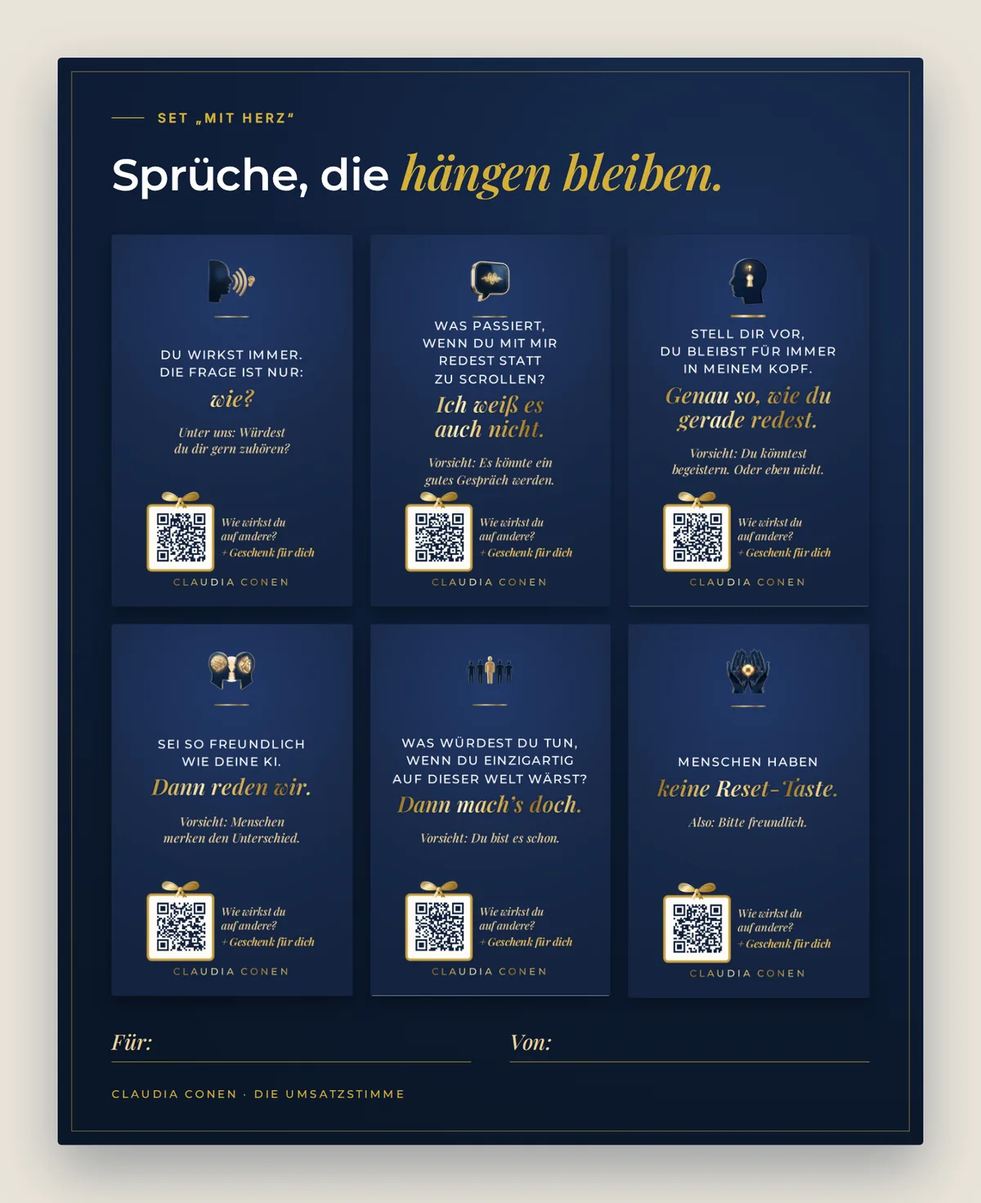
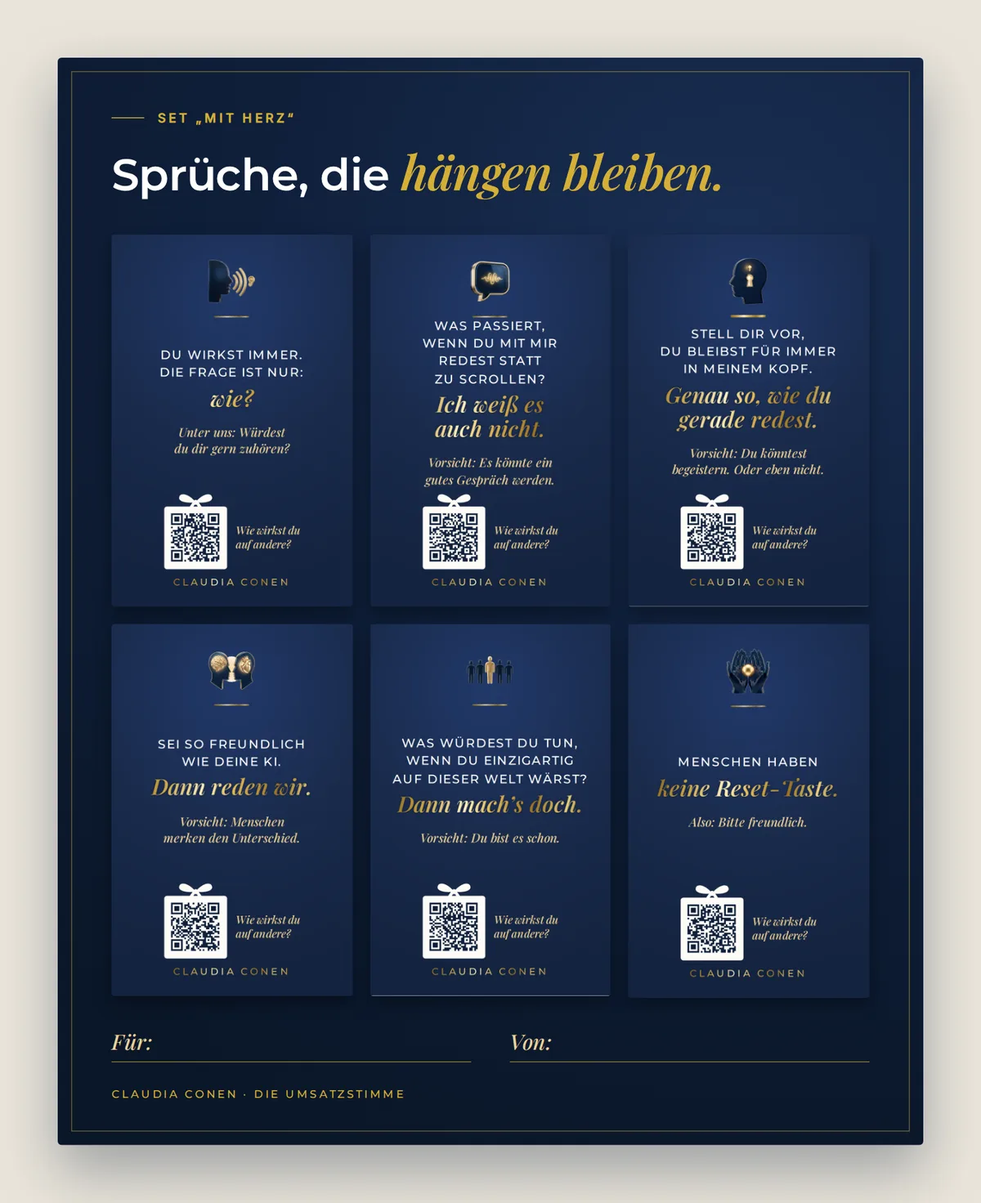
Magnet: schlichte Schleife in QR-Feldfarbe, ohne Zusatztext

diff --git a/magnet.html b/magnet.html
@@ -62,9 +62,8 @@ h1 em,h2 em{font:italic 600 1.06em/1 var(--ff-a);color:var(--gold-dunkel)}
 .mag .qr svg{width:calc(12.5*var(--mm));height:calc(12.5*var(--mm));display:block}
 .mag .fuss{position:absolute;left:0;right:0;bottom:calc(4.6*var(--mm));font:500 calc(2.2*var(--mm))/1 Montserrat,sans-serif;letter-spacing:.24em;color:#D4AF37}
 .mag .fuss span{background:linear-gradient(105deg,#8E6A22 0%,#C9A447 18%,#FFF1C1 38%,#E4BC5D 50%,#9A7224 72%,#E9CF7E 88%,#8E6A22 100%);-webkit-background-clip:text;background-clip:text;color:transparent}
-.mag .qr i{position:relative;padding:calc(.9*var(--mm));background:#FDFBF7;border-radius:calc(.6*var(--mm));
- box-shadow:0 0 0 calc(.45*var(--mm)) #C9A447, 0 0 0 calc(.6*var(--mm)) #8E6A22}
-.mag .qr svg.schleife{position:absolute;left:50%;top:calc(-3.9*var(--mm));width:calc(10*var(--mm));height:calc(4.5*var(--mm));transform:translateX(-50%)}
+.mag .qr i{position:relative;padding:calc(.9*var(--mm));background:#FDFBF7;border-radius:calc(.6*var(--mm))}
+.mag .qr svg.schleife{position:absolute;left:50%;top:calc(-3.6*var(--mm));width:calc(10*var(--mm));height:calc(4*var(--mm));transform:translateX(-50%)}
 .mag .qr{bottom:calc(8.6*var(--mm))}
 
 /* Produkt */
@@ -113,7 +112,7 @@ footer{padding:22px 0;font-size:13px;letter-spacing:.06em;border-top:1px solid v
  </div>
 </div></section>
 
-<div class="band" id="band" tabindex="0" aria-label="Alle Sprüche, laufen langsam durch. Zum Anhalten mit der Maus darüberfahren."><div class="spur"><article class="slot" data-audio="magnet-dateien/audio/01.m4a" data-nr="01"><div class="grp">Mit Herz</div><div class="mag"><img class="ic" src="magnet-dateien/schritt-5.webp" alt=""><div class="strich"></div><div class="text"><p class="z"><b>Du wirkst immer.</b><b>Die Frage ist nur:</b><span class="gd">wie?</span></p><p class="t">Unter uns: Würdest du dir gern zuhören?</p></div><div class="qr"><i><svg class="schleife" viewBox="0 0 40 18" aria-hidden="true"><defs><linearGradient id="sg01" x1="0" x2="1" y1="0" y2=".3"><stop offset="0" stop-color="#8E6A22"/><stop offset=".35" stop-color="#FFF1C1"/><stop offset=".55" stop-color="#E4BC5D"/><stop offset="1" stop-color="#9A7224"/></linearGradient></defs><path fill="url(#sg01)" d="M20 10 C14 2,4 0,3 6 C2 11,12 12,20 10Z M20 10 C26 2,36 0,37 6 C38 11,28 12,20 10Z"/><path fill="none" stroke="#13233F" stroke-width=".6" opacity=".35" d="M19 9.5 C14 4,7 3,6 6.5 M21 9.5 C26 4,33 3,34 6.5"/><path fill="url(#sg01)" d="M18.5 10 L14 17.5 L16.6 16.6 L17.6 18 L20 11Z M21.5 10 L26 17.5 L23.4 16.6 L22.4 18 L20 11Z"/><ellipse cx="20" cy="10" rx="2.6" ry="2.2" fill="url(#sg01)" stroke="#9A7224" stroke-width=".3"/></svg><svg viewBox="0 0 33 33"><use href="#qr01"/></svg></i><span>Wie wirkst du<br>auf andere?<b>+ Geschenk für dich</b></span></div><div class="fuss"><span>CLAUDIA CONEN</span></div></div></article><article class="slot" data-audio="magnet-dateien/audio/02.m4a" data-nr="02"><div class="grp">Mit Herz</div><div class="mag"><img class="ic" src="magnet-dateien/botschaft.webp" alt=""><div class="strich"></div><div class="text"><p class="z"><b>Was passiert,</b><b>wenn du mit mir</b><b>redest statt</b><b>zu scrollen?</b><span class="gd">Ich weiß es auch nicht.</span></p><p class="t">Vorsicht: Es könnte ein gutes Gespräch werden.</p></div><div class="qr"><i><svg class="schleife" viewBox="0 0 40 18" aria-hidden="true"><defs><linearGradient id="sg02" x1="0" x2="1" y1="0" y2=".3"><stop offset="0" stop-color="#8E6A22"/><stop offset=".35" stop-color="#FFF1C1"/><stop offset=".55" stop-color="#E4BC5D"/><stop offset="1" stop-color="#9A7224"/></linearGradient></defs><path fill="url(#sg02)" d="M20 10 C14 2,4 0,3 6 C2 11,12 12,20 10Z M20 10 C26 2,36 0,37 6 C38 11,28 12,20 10Z"/><path fill="none" stroke="#13233F" stroke-width=".6" opacity=".35" d="M19 9.5 C14 4,7 3,6 6.5 M21 9.5 C26 4,33 3,34 6.5"/><path fill="url(#sg02)" d="M18.5 10 L14 17.5 L16.6 16.6 L17.6 18 L20 11Z M21.5 10 L26 17.5 L23.4 16.6 L22.4 18 L20 11Z"/><ellipse cx="20" cy="10" rx="2.6" ry="2.2" fill="url(#sg02)" stroke="#9A7224" stroke-width=".3"/></svg><svg viewBox="0 0 33 33"><use href="#qr02"/></svg></i><span>Wie wirkst du<br>auf andere?<b>+ Geschenk für dich</b></span></div><div class="fuss"><span>CLAUDIA CONEN</span></div></div></article><article class="slot" data-audio="magnet-dateien/audio/03.m4a" data-nr="03"><div class="grp">Mit Herz</div><div class="mag"><img class="ic" src="magnet-dateien/schritt-1.webp" alt=""><div class="strich"></div><div class="text"><p class="z"><b>Stell dir vor,</b><b>du bleibst für immer</b><b>in meinem Kopf.</b><span class="gd">Genau so, wie du gerade redest.</span></p><p class="t">Vorsicht: Du könntest begeistern. Oder eben nicht.</p></div><div class="qr"><i><svg class="schleife" viewBox="0 0 40 18" aria-hidden="true"><defs><linearGradient id="sg03" x1="0" x2="1" y1="0" y2=".3"><stop offset="0" stop-color="#8E6A22"/><stop offset=".35" stop-color="#FFF1C1"/><stop offset=".55" stop-color="#E4BC5D"/><stop offset="1" stop-color="#9A7224"/></linearGradient></defs><path fill="url(#sg03)" d="M20 10 C14 2,4 0,3 6 C2 11,12 12,20 10Z M20 10 C26 2,36 0,37 6 C38 11,28 12,20 10Z"/><path fill="none" stroke="#13233F" stroke-width=".6" opacity=".35" d="M19 9.5 C14 4,7 3,6 6.5 M21 9.5 C26 4,33 3,34 6.5"/><path fill="url(#sg03)" d="M18.5 10 L14 17.5 L16.6 16.6 L17.6 18 L20 11Z M21.5 10 L26 17.5 L23.4 16.6 L22.4 18 L20 11Z"/><ellipse cx="20" cy="10" rx="2.6" ry="2.2" fill="url(#sg03)" stroke="#9A7224" stroke-width=".3"/></svg><svg viewBox="0 0 33 33"><use href="#qr03"/></svg></i><span>Wie wirkst du<br>auf andere?<b>+ Geschenk für dich</b></span></div><div class="fuss"><span>CLAUDIA CONEN</span></div></div></article><article class="slot" data-audio="magnet-dateien/audio/04.m4a" data-nr="04"><div class="grp">Mit Herz</div><div class="mag"><img class="ic" src="magnet-dateien/schritt-7.webp" alt=""><div class="strich"></div><div class="text"><p class="z"><b>Sei so freundlich</b><b>wie deine KI.</b><span class="gd">Dann reden wir.</span></p><p class="t">Vorsicht: Menschen merken den Unterschied.</p></div><div class="qr"><i><svg class="schleife" viewBox="0 0 40 18" aria-hidden="true"><defs><linearGradient id="sg04" x1="0" x2="1" y1="0" y2=".3"><stop offset="0" stop-color="#8E6A22"/><stop offset=".35" stop-color="#FFF1C1"/><stop offset=".55" stop-color="#E4BC5D"/><stop offset="1" stop-color="#9A7224"/></linearGradient></defs><path fill="url(#sg04)" d="M20 10 C14 2,4 0,3 6 C2 11,12 12,20 10Z M20 10 C26 2,36 0,37 6 C38 11,28 12,20 10Z"/><path fill="none" stroke="#13233F" stroke-width=".6" opacity=".35" d="M19 9.5 C14 4,7 3,6 6.5 M21 9.5 C26 4,33 3,34 6.5"/><path fill="url(#sg04)" d="M18.5 10 L14 17.5 L16.6 16.6 L17.6 18 L20 11Z M21.5 10 L26 17.5 L23.4 16.6 L22.4 18 L20 11Z"/><ellipse cx="20" cy="10" rx="2.6" ry="2.2" fill="url(#sg04)" stroke="#9A7224" stroke-width=".3"/></svg><svg viewBox="0 0 33 33"><use href="#qr04"/></svg></i><span>Wie wirkst du<br>auf andere?<b>+ Geschenk für dich</b></span></div><div class="fuss"><span>CLAUDIA CONEN</span></div></div></article><article class="slot" data-audio="magnet-dateien/audio/05.m4a" data-nr="05"><div class="grp">Mit Herz</div><div class="mag"><img class="ic" src="magnet-dateien/schritt-3.webp" alt=""><div class="strich"></div><div class="text"><p class="z"><b>Was würdest du tun,</b><b>wenn du einzigartig</b><b>auf dieser Welt wärst?</b><span class="gd">Dann mach’s doch.</span></p><p class="t">Vorsicht: Du bist es schon.</p></div><div class="qr"><i><svg class="schleife" viewBox="0 0 40 18" aria-hidden="true"><defs><linearGradient id="sg05" x1="0" x2="1" y1="0" y2=".3"><stop offset="0" stop-color="#8E6A22"/><stop offset=".35" stop-color="#FFF1C1"/><stop offset=".55" stop-color="#E4BC5D"/><stop offset="1" stop-color="#9A7224"/></linearGradient></defs><path fill="url(#sg05)" d="M20 10 C14 2,4 0,3 6 C2 11,12 12,20 10Z M20 10 C26 2,36 0,37 6 C38 11,28 12,20 10Z"/><path fill="none" stroke="#13233F" stroke-width=".6" opacity=".35" d="M19 9.5 C14 4,7 3,6 6.5 M21 9.5 C26 4,33 3,34 6.5"/><path fill="url(#sg05)" d="M18.5 10 L14 17.5 L16.6 16.6 L17.6 18 L20 11Z M21.5 10 L26 17.5 L23.4 16.6 L22.4 18 L20 11Z"/><ellipse cx="20" cy="10" rx="2.6" ry="2.2" fill="url(#sg05)" stroke="#9A7224" stroke-width=".3"/></svg><svg viewBox="0 0 33 33"><use href="#qr05"/></svg></i><span>Wie wirkst du<br>auf andere?<b>+ Geschenk für dich</b></span></div><div class="fuss"><span>CLAUDIA CONEN</span></div></div></article><article class="slot" data-audio="magnet-dateien/audio/06.m4a" data-nr="06"><div class="grp">Mit Herz</div><div class="mag"><img class="ic" src="magnet-dateien/schritt-8.webp" alt=""><div class="strich"></div><div class="text"><p class="z"><b>Menschen haben</b><span class="gd">keine Reset-Taste.</span></p><p class="t">Also: Bitte freundlich.</p></div><div class="qr"><i><svg class="schleife" viewBox="0 0 40 18" aria-hidden="true"><defs><linearGradient id="sg06" x1="0" x2="1" y1="0" y2=".3"><stop offset="0" stop-color="#8E6A22"/><stop offset=".35" stop-color="#FFF1C1"/><stop offset=".55" stop-color="#E4BC5D"/><stop offset="1" stop-color="#9A7224"/></linearGradient></defs><path fill="url(#sg06)" d="M20 10 C14 2,4 0,3 6 C2 11,12 12,20 10Z M20 10 C26 2,36 0,37 6 C38 11,28 12,20 10Z"/><path fill="none" stroke="#13233F" stroke-width=".6" opacity=".35" d="M19 9.5 C14 4,7 3,6 6.5 M21 9.5 C26 4,33 3,34 6.5"/><path fill="url(#sg06)" d="M18.5 10 L14 17.5 L16.6 16.6 L17.6 18 L20 11Z M21.5 10 L26 17.5 L23.4 16.6 L22.4 18 L20 11Z"/><ellipse cx="20" cy="10" rx="2.6" ry="2.2" fill="url(#sg06)" stroke="#9A7224" stroke-width=".3"/></svg><svg viewBox="0 0 33 33"><use href="#qr06"/></svg></i><span>Wie wirkst du<br>auf andere?<b>+ Geschenk für dich</b></span></div><div class="fuss"><span>CLAUDIA CONEN</span></div></div></article><article class="slot" data-audio="magnet-dateien/audio/07.m4a" data-nr="07"><div class="grp">Mit Biss</div><div class="mag"><img class="ic" src="magnet-dateien/geschenk.webp" alt=""><div class="strich"></div><div class="text"><p class="z"><b>Kompetenz: vorhanden.</b><b>Wirkung:</b><span class="gd">wird nachgeliefert.</span></p><p class="t">Vorsicht: Lieferzeit unbekannt.</p></div><div class="qr"><i><svg class="schleife" viewBox="0 0 40 18" aria-hidden="true"><defs><linearGradient id="sg07" x1="0" x2="1" y1="0" y2=".3"><stop offset="0" stop-color="#8E6A22"/><stop offset=".35" stop-color="#FFF1C1"/><stop offset=".55" stop-color="#E4BC5D"/><stop offset="1" stop-color="#9A7224"/></linearGradient></defs><path fill="url(#sg07)" d="M20 10 C14 2,4 0,3 6 C2 11,12 12,20 10Z M20 10 C26 2,36 0,37 6 C38 11,28 12,20 10Z"/><path fill="none" stroke="#13233F" stroke-width=".6" opacity=".35" d="M19 9.5 C14 4,7 3,6 6.5 M21 9.5 C26 4,33 3,34 6.5"/><path fill="url(#sg07)" d="M18.5 10 L14 17.5 L16.6 16.6 L17.6 18 L20 11Z M21.5 10 L26 17.5 L23.4 16.6 L22.4 18 L20 11Z"/><ellipse cx="20" cy="10" rx="2.6" ry="2.2" fill="url(#sg07)" stroke="#9A7224" stroke-width=".3"/></svg><svg viewBox="0 0 33 33"><use href="#qr07"/></svg></i><span>Wie wirkst du<br>auf andere?<b>+ Geschenk für dich</b></span></div><div class="fuss"><span>CLAUDIA CONEN</span></div></div></article><article class="slot" data-audio="magnet-dateien/audio/08.m4a" data-nr="08"><div class="grp">Mit Biss</div><div class="mag"><img class="ic" src="magnet-dateien/ki.webp" alt=""><div class="strich"></div><div class="text"><p class="z"><b>Du klingst</b><b>wie ein Prompt.</b><span class="gd">Nur nicht so freundlich.</span></p></div><div class="qr"><i><svg class="schleife" viewBox="0 0 40 18" aria-hidden="true"><defs><linearGradient id="sg08" x1="0" x2="1" y1="0" y2=".3"><stop offset="0" stop-color="#8E6A22"/><stop offset=".35" stop-color="#FFF1C1"/><stop offset=".55" stop-color="#E4BC5D"/><stop offset="1" stop-color="#9A7224"/></linearGradient></defs><path fill="url(#sg08)" d="M20 10 C14 2,4 0,3 6 C2 11,12 12,20 10Z M20 10 C26 2,36 0,37 6 C38 11,28 12,20 10Z"/><path fill="none" stroke="#13233F" stroke-width=".6" opacity=".35" d="M19 9.5 C14 4,7 3,6 6.5 M21 9.5 C26 4,33 3,34 6.5"/><path fill="url(#sg08)" d="M18.5 10 L14 17.5 L16.6 16.6 L17.6 18 L20 11Z M21.5 10 L26 17.5 L23.4 16.6 L22.4 18 L20 11Z"/><ellipse cx="20" cy="10" rx="2.6" ry="2.2" fill="url(#sg08)" stroke="#9A7224" stroke-width=".3"/></svg><svg viewBox="0 0 33 33"><use href="#qr08"/></svg></i><span>Wie wirkst du<br>auf andere?<b>+ Geschenk für dich</b></span></div><div class="fuss"><span>CLAUDIA CONEN</span></div></div></article><article class="slot" data-audio="magnet-dateien/audio/09.m4a" data-nr="09"><div class="grp">Mit Biss</div><div class="mag"><img class="ic" src="magnet-dateien/schritt-9.webp" alt=""><div class="strich"></div><div class="text"><p class="z"><b>Dein Pitch</b><b>war super.</b><span class="gd">Hat nur keiner verstanden.</span></p></div><div class="qr"><i><svg class="schleife" viewBox="0 0 40 18" aria-hidden="true"><defs><linearGradient id="sg09" x1="0" x2="1" y1="0" y2=".3"><stop offset="0" stop-color="#8E6A22"/><stop offset=".35" stop-color="#FFF1C1"/><stop offset=".55" stop-color="#E4BC5D"/><stop offset="1" stop-color="#9A7224"/></linearGradient></defs><path fill="url(#sg09)" d="M20 10 C14 2,4 0,3 6 C2 11,12 12,20 10Z M20 10 C26 2,36 0,37 6 C38 11,28 12,20 10Z"/><path fill="none" stroke="#13233F" stroke-width=".6" opacity=".35" d="M19 9.5 C14 4,7 3,6 6.5 M21 9.5 C26 4,33 3,34 6.5"/><path fill="url(#sg09)" d="M18.5 10 L14 17.5 L16.6 16.6 L17.6 18 L20 11Z M21.5 10 L26 17.5 L23.4 16.6 L22.4 18 L20 11Z"/><ellipse cx="20" cy="10" rx="2.6" ry="2.2" fill="url(#sg09)" stroke="#9A7224" stroke-width=".3"/></svg><svg viewBox="0 0 33 33"><use href="#qr09"/></svg></i><span>Wie wirkst du<br>auf andere?<b>+ Geschenk für dich</b></span></div><div class="fuss"><span>CLAUDIA CONEN</span></div></div></article><article class="slot" data-audio="magnet-dateien/audio/10.m4a" data-nr="10"><div class="grp">Mit Biss</div><div class="mag"><img class="ic" src="magnet-dateien/praesenz.webp" alt=""><div class="strich"></div><div class="text"><p class="z"><b>Kamera an,</b><b>Persönlichkeit aus?</b><span class="gd">Warum redest du jetzt so anders?</span></p></div><div class="qr"><i><svg class="schleife" viewBox="0 0 40 18" aria-hidden="true"><defs><linearGradient id="sg10" x1="0" x2="1" y1="0" y2=".3"><stop offset="0" stop-color="#8E6A22"/><stop offset=".35" stop-color="#FFF1C1"/><stop offset=".55" stop-color="#E4BC5D"/><stop offset="1" stop-color="#9A7224"/></linearGradient></defs><path fill="url(#sg10)" d="M20 10 C14 2,4 0,3 6 C2 11,12 12,20 10Z M20 10 C26 2,36 0,37 6 C38 11,28 12,20 10Z"/><path fill="none" stroke="#13233F" stroke-width=".6" opacity=".35" d="M19 9.5 C14 4,7 3,6 6.5 M21 9.5 C26 4,33 3,34 6.5"/><path fill="url(#sg10)" d="M18.5 10 L14 17.5 L16.6 16.6 L17.6 18 L20 11Z M21.5 10 L26 17.5 L23.4 16.6 L22.4 18 L20 11Z"/><ellipse cx="20" cy="10" rx="2.6" ry="2.2" fill="url(#sg10)" stroke="#9A7224" stroke-width=".3"/></svg><svg viewBox="0 0 33 33"><use href="#qr10"/></svg></i><span>Wie wirkst du<br>auf andere?<b>+ Geschenk für dich</b></span></div><div class="fuss"><span>CLAUDIA CONEN</span></div></div></article><article class="slot" data-audio="magnet-dateien/audio/01.m4a" data-nr="01" aria-hidden="true"><div class="grp">Mit Herz</div><div class="mag"><img class="ic" src="magnet-dateien/schritt-5.webp" alt=""><div class="strich"></div><div class="text"><p class="z"><b>Du wirkst immer.</b><b>Die Frage ist nur:</b><span class="gd">wie?</span></p><p class="t">Unter uns: Würdest du dir gern zuhören?</p></div><div class="qr"><i><svg class="schleife" viewBox="0 0 40 18" aria-hidden="true"><defs><linearGradient id="sg01" x1="0" x2="1" y1="0" y2=".3"><stop offset="0" stop-color="#8E6A22"/><stop offset=".35" stop-color="#FFF1C1"/><stop offset=".55" stop-color="#E4BC5D"/><stop offset="1" stop-color="#9A7224"/></linearGradient></defs><path fill="url(#sg01)" d="M20 10 C14 2,4 0,3 6 C2 11,12 12,20 10Z M20 10 C26 2,36 0,37 6 C38 11,28 12,20 10Z"/><path fill="none" stroke="#13233F" stroke-width=".6" opacity=".35" d="M19 9.5 C14 4,7 3,6 6.5 M21 9.5 C26 4,33 3,34 6.5"/><path fill="url(#sg01)" d="M18.5 10 L14 17.5 L16.6 16.6 L17.6 18 L20 11Z M21.5 10 L26 17.5 L23.4 16.6 L22.4 18 L20 11Z"/><ellipse cx="20" cy="10" rx="2.6" ry="2.2" fill="url(#sg01)" stroke="#9A7224" stroke-width=".3"/></svg><svg viewBox="0 0 33 33"><use href="#qr01"/></svg></i><span>Wie wirkst du<br>auf andere?<b>+ Geschenk für dich</b></span></div><div class="fuss"><span>CLAUDIA CONEN</span></div></div></article><article class="slot" data-audio="magnet-dateien/audio/02.m4a" data-nr="02" aria-hidden="true"><div class="grp">Mit Herz</div><div class="mag"><img class="ic" src="magnet-dateien/botschaft.webp" alt=""><div class="strich"></div><div class="text"><p class="z"><b>Was passiert,</b><b>wenn du mit mir</b><b>redest statt</b><b>zu scrollen?</b><span class="gd">Ich weiß es auch nicht.</span></p><p class="t">Vorsicht: Es könnte ein gutes Gespräch werden.</p></div><div class="qr"><i><svg class="schleife" viewBox="0 0 40 18" aria-hidden="true"><defs><linearGradient id="sg02" x1="0" x2="1" y1="0" y2=".3"><stop offset="0" stop-color="#8E6A22"/><stop offset=".35" stop-color="#FFF1C1"/><stop offset=".55" stop-color="#E4BC5D"/><stop offset="1" stop-color="#9A7224"/></linearGradient></defs><path fill="url(#sg02)" d="M20 10 C14 2,4 0,3 6 C2 11,12 12,20 10Z M20 10 C26 2,36 0,37 6 C38 11,28 12,20 10Z"/><path fill="none" stroke="#13233F" stroke-width=".6" opacity=".35" d="M19 9.5 C14 4,7 3,6 6.5 M21 9.5 C26 4,33 3,34 6.5"/><path fill="url(#sg02)" d="M18.5 10 L14 17.5 L16.6 16.6 L17.6 18 L20 11Z M21.5 10 L26 17.5 L23.4 16.6 L22.4 18 L20 11Z"/><ellipse cx="20" cy="10" rx="2.6" ry="2.2" fill="url(#sg02)" stroke="#9A7224" stroke-width=".3"/></svg><svg viewBox="0 0 33 33"><use href="#qr02"/></svg></i><span>Wie wirkst du<br>auf andere?<b>+ Geschenk für dich</b></span></div><div class="fuss"><span>CLAUDIA CONEN</span></div></div></article><article class="slot" data-audio="magnet-dateien/audio/03.m4a" data-nr="03" aria-hidden="true"><div class="grp">Mit Herz</div><div class="mag"><img class="ic" src="magnet-dateien/schritt-1.webp" alt=""><div class="strich"></div><div class="text"><p class="z"><b>Stell dir vor,</b><b>du bleibst für immer</b><b>in meinem Kopf.</b><span class="gd">Genau so, wie du gerade redest.</span></p><p class="t">Vorsicht: Du könntest begeistern. Oder eben nicht.</p></div><div class="qr"><i><svg class="schleife" viewBox="0 0 40 18" aria-hidden="true"><defs><linearGradient id="sg03" x1="0" x2="1" y1="0" y2=".3"><stop offset="0" stop-color="#8E6A22"/><stop offset=".35" stop-color="#FFF1C1"/><stop offset=".55" stop-color="#E4BC5D"/><stop offset="1" stop-color="#9A7224"/></linearGradient></defs><path fill="url(#sg03)" d="M20 10 C14 2,4 0,3 6 C2 11,12 12,20 10Z M20 10 C26 2,36 0,37 6 C38 11,28 12,20 10Z"/><path fill="none" stroke="#13233F" stroke-width=".6" opacity=".35" d="M19 9.5 C14 4,7 3,6 6.5 M21 9.5 C26 4,33 3,34 6.5"/><path fill="url(#sg03)" d="M18.5 10 L14 17.5 L16.6 16.6 L17.6 18 L20 11Z M21.5 10 L26 17.5 L23.4 16.6 L22.4 18 L20 11Z"/><ellipse cx="20" cy="10" rx="2.6" ry="2.2" fill="url(#sg03)" stroke="#9A7224" stroke-width=".3"/></svg><svg viewBox="0 0 33 33"><use href="#qr03"/></svg></i><span>Wie wirkst du<br>auf andere?<b>+ Geschenk für dich</b></span></div><div class="fuss"><span>CLAUDIA CONEN</span></div></div></article><article class="slot" data-audio="magnet-dateien/audio/04.m4a" data-nr="04" aria-hidden="true"><div class="grp">Mit Herz</div><div class="mag"><img class="ic" src="magnet-dateien/schritt-7.webp" alt=""><div class="strich"></div><div class="text"><p class="z"><b>Sei so freundlich</b><b>wie deine KI.</b><span class="gd">Dann reden wir.</span></p><p class="t">Vorsicht: Menschen merken den Unterschied.</p></div><div class="qr"><i><svg class="schleife" viewBox="0 0 40 18" aria-hidden="true"><defs><linearGradient id="sg04" x1="0" x2="1" y1="0" y2=".3"><stop offset="0" stop-color="#8E6A22"/><stop offset=".35" stop-color="#FFF1C1"/><stop offset=".55" stop-color="#E4BC5D"/><stop offset="1" stop-color="#9A7224"/></linearGradient></defs><path fill="url(#sg04)" d="M20 10 C14 2,4 0,3 6 C2 11,12 12,20 10Z M20 10 C26 2,36 0,37 6 C38 11,28 12,20 10Z"/><path fill="none" stroke="#13233F" stroke-width=".6" opacity=".35" d="M19 9.5 C14 4,7 3,6 6.5 M21 9.5 C26 4,33 3,34 6.5"/><path fill="url(#sg04)" d="M18.5 10 L14 17.5 L16.6 16.6 L17.6 18 L20 11Z M21.5 10 L26 17.5 L23.4 16.6 L22.4 18 L20 11Z"/><ellipse cx="20" cy="10" rx="2.6" ry="2.2" fill="url(#sg04)" stroke="#9A7224" stroke-width=".3"/></svg><svg viewBox="0 0 33 33"><use href="#qr04"/></svg></i><span>Wie wirkst du<br>auf andere?<b>+ Geschenk für dich</b></span></div><div class="fuss"><span>CLAUDIA CONEN</span></div></div></article><article class="slot" data-audio="magnet-dateien/audio/05.m4a" data-nr="05" aria-hidden="true"><div class="grp">Mit Herz</div><div class="mag"><img class="ic" src="magnet-dateien/schritt-3.webp" alt=""><div class="strich"></div><div class="text"><p class="z"><b>Was würdest du tun,</b><b>wenn du einzigartig</b><b>auf dieser Welt wärst?</b><span class="gd">Dann mach’s doch.</span></p><p class="t">Vorsicht: Du bist es schon.</p></div><div class="qr"><i><svg class="schleife" viewBox="0 0 40 18" aria-hidden="true"><defs><linearGradient id="sg05" x1="0" x2="1" y1="0" y2=".3"><stop offset="0" stop-color="#8E6A22"/><stop offset=".35" stop-color="#FFF1C1"/><stop offset=".55" stop-color="#E4BC5D"/><stop offset="1" stop-color="#9A7224"/></linearGradient></defs><path fill="url(#sg05)" d="M20 10 C14 2,4 0,3 6 C2 11,12 12,20 10Z M20 10 C26 2,36 0,37 6 C38 11,28 12,20 10Z"/><path fill="none" stroke="#13233F" stroke-width=".6" opacity=".35" d="M19 9.5 C14 4,7 3,6 6.5 M21 9.5 C26 4,33 3,34 6.5"/><path fill="url(#sg05)" d="M18.5 10 L14 17.5 L16.6 16.6 L17.6 18 L20 11Z M21.5 10 L26 17.5 L23.4 16.6 L22.4 18 L20 11Z"/><ellipse cx="20" cy="10" rx="2.6" ry="2.2" fill="url(#sg05)" stroke="#9A7224" stroke-width=".3"/></svg><svg viewBox="0 0 33 33"><use href="#qr05"/></svg></i><span>Wie wirkst du<br>auf andere?<b>+ Geschenk für dich</b></span></div><div class="fuss"><span>CLAUDIA CONEN</span></div></div></article><article class="slot" data-audio="magnet-dateien/audio/06.m4a" data-nr="06" aria-hidden="true"><div class="grp">Mit Herz</div><div class="mag"><img class="ic" src="magnet-dateien/schritt-8.webp" alt=""><div class="strich"></div><div class="text"><p class="z"><b>Menschen haben</b><span class="gd">keine Reset-Taste.</span></p><p class="t">Also: Bitte freundlich.</p></div><div class="qr"><i><svg class="schleife" viewBox="0 0 40 18" aria-hidden="true"><defs><linearGradient id="sg06" x1="0" x2="1" y1="0" y2=".3"><stop offset="0" stop-color="#8E6A22"/><stop offset=".35" stop-color="#FFF1C1"/><stop offset=".55" stop-color="#E4BC5D"/><stop offset="1" stop-color="#9A7224"/></linearGradient></defs><path fill="url(#sg06)" d="M20 10 C14 2,4 0,3 6 C2 11,12 12,20 10Z M20 10 C26 2,36 0,37 6 C38 11,28 12,20 10Z"/><path fill="none" stroke="#13233F" stroke-width=".6" opacity=".35" d="M19 9.5 C14 4,7 3,6 6.5 M21 9.5 C26 4,33 3,34 6.5"/><path fill="url(#sg06)" d="M18.5 10 L14 17.5 L16.6 16.6 L17.6 18 L20 11Z M21.5 10 L26 17.5 L23.4 16.6 L22.4 18 L20 11Z"/><ellipse cx="20" cy="10" rx="2.6" ry="2.2" fill="url(#sg06)" stroke="#9A7224" stroke-width=".3"/></svg><svg viewBox="0 0 33 33"><use href="#qr06"/></svg></i><span>Wie wirkst du<br>auf andere?<b>+ Geschenk für dich</b></span></div><div class="fuss"><span>CLAUDIA CONEN</span></div></div></article><article class="slot" data-audio="magnet-dateien/audio/07.m4a" data-nr="07" aria-hidden="true"><div class="grp">Mit Biss</div><div class="mag"><img class="ic" src="magnet-dateien/geschenk.webp" alt=""><div class="strich"></div><div class="text"><p class="z"><b>Kompetenz: vorhanden.</b><b>Wirkung:</b><span class="gd">wird nachgeliefert.</span></p><p class="t">Vorsicht: Lieferzeit unbekannt.</p></div><div class="qr"><i><svg class="schleife" viewBox="0 0 40 18" aria-hidden="true"><defs><linearGradient id="sg07" x1="0" x2="1" y1="0" y2=".3"><stop offset="0" stop-color="#8E6A22"/><stop offset=".35" stop-color="#FFF1C1"/><stop offset=".55" stop-color="#E4BC5D"/><stop offset="1" stop-color="#9A7224"/></linearGradient></defs><path fill="url(#sg07)" d="M20 10 C14 2,4 0,3 6 C2 11,12 12,20 10Z M20 10 C26 2,36 0,37 6 C38 11,28 12,20 10Z"/><path fill="none" stroke="#13233F" stroke-width=".6" opacity=".35" d="M19 9.5 C14 4,7 3,6 6.5 M21 9.5 C26 4,33 3,34 6.5"/><path fill="url(#sg07)" d="M18.5 10 L14 17.5 L16.6 16.6 L17.6 18 L20 11Z M21.5 10 L26 17.5 L23.4 16.6 L22.4 18 L20 11Z"/><ellipse cx="20" cy="10" rx="2.6" ry="2.2" fill="url(#sg07)" stroke="#9A7224" stroke-width=".3"/></svg><svg viewBox="0 0 33 33"><use href="#qr07"/></svg></i><span>Wie wirkst du<br>auf andere?<b>+ Geschenk für dich</b></span></div><div class="fuss"><span>CLAUDIA CONEN</span></div></div></article><article class="slot" data-audio="magnet-dateien/audio/08.m4a" data-nr="08" aria-hidden="true"><div class="grp">Mit Biss</div><div class="mag"><img class="ic" src="magnet-dateien/ki.webp" alt=""><div class="strich"></div><div class="text"><p class="z"><b>Du klingst</b><b>wie ein Prompt.</b><span class="gd">Nur nicht so freundlich.</span></p></div><div class="qr"><i><svg class="schleife" viewBox="0 0 40 18" aria-hidden="true"><defs><linearGradient id="sg08" x1="0" x2="1" y1="0" y2=".3"><stop offset="0" stop-color="#8E6A22"/><stop offset=".35" stop-color="#FFF1C1"/><stop offset=".55" stop-color="#E4BC5D"/><stop offset="1" stop-color="#9A7224"/></linearGradient></defs><path fill="url(#sg08)" d="M20 10 C14 2,4 0,3 6 C2 11,12 12,20 10Z M20 10 C26 2,36 0,37 6 C38 11,28 12,20 10Z"/><path fill="none" stroke="#13233F" stroke-width=".6" opacity=".35" d="M19 9.5 C14 4,7 3,6 6.5 M21 9.5 C26 4,33 3,34 6.5"/><path fill="url(#sg08)" d="M18.5 10 L14 17.5 L16.6 16.6 L17.6 18 L20 11Z M21.5 10 L26 17.5 L23.4 16.6 L22.4 18 L20 11Z"/><ellipse cx="20" cy="10" rx="2.6" ry="2.2" fill="url(#sg08)" stroke="#9A7224" stroke-width=".3"/></svg><svg viewBox="0 0 33 33"><use href="#qr08"/></svg></i><span>Wie wirkst du<br>auf andere?<b>+ Geschenk für dich</b></span></div><div class="fuss"><span>CLAUDIA CONEN</span></div></div></article><article class="slot" data-audio="magnet-dateien/audio/09.m4a" data-nr="09" aria-hidden="true"><div class="grp">Mit Biss</div><div class="mag"><img class="ic" src="magnet-dateien/schritt-9.webp" alt=""><div class="strich"></div><div class="text"><p class="z"><b>Dein Pitch</b><b>war super.</b><span class="gd">Hat nur keiner verstanden.</span></p></div><div class="qr"><i><svg class="schleife" viewBox="0 0 40 18" aria-hidden="true"><defs><linearGradient id="sg09" x1="0" x2="1" y1="0" y2=".3"><stop offset="0" stop-color="#8E6A22"/><stop offset=".35" stop-color="#FFF1C1"/><stop offset=".55" stop-color="#E4BC5D"/><stop offset="1" stop-color="#9A7224"/></linearGradient></defs><path fill="url(#sg09)" d="M20 10 C14 2,4 0,3 6 C2 11,12 12,20 10Z M20 10 C26 2,36 0,37 6 C38 11,28 12,20 10Z"/><path fill="none" stroke="#13233F" stroke-width=".6" opacity=".35" d="M19 9.5 C14 4,7 3,6 6.5 M21 9.5 C26 4,33 3,34 6.5"/><path fill="url(#sg09)" d="M18.5 10 L14 17.5 L16.6 16.6 L17.6 18 L20 11Z M21.5 10 L26 17.5 L23.4 16.6 L22.4 18 L20 11Z"/><ellipse cx="20" cy="10" rx="2.6" ry="2.2" fill="url(#sg09)" stroke="#9A7224" stroke-width=".3"/></svg><svg viewBox="0 0 33 33"><use href="#qr09"/></svg></i><span>Wie wirkst du<br>auf andere?<b>+ Geschenk für dich</b></span></div><div class="fuss"><span>CLAUDIA CONEN</span></div></div></article><article class="slot" data-audio="magnet-dateien/audio/10.m4a" data-nr="10" aria-hidden="true"><div class="grp">Mit Biss</div><div class="mag"><img class="ic" src="magnet-dateien/praesenz.webp" alt=""><div class="strich"></div><div class="text"><p class="z"><b>Kamera an,</b><b>Persönlichkeit aus?</b><span class="gd">Warum redest du jetzt so anders?</span></p></div><div class="qr"><i><svg class="schleife" viewBox="0 0 40 18" aria-hidden="true"><defs><linearGradient id="sg10" x1="0" x2="1" y1="0" y2=".3"><stop offset="0" stop-color="#8E6A22"/><stop offset=".35" stop-color="#FFF1C1"/><stop offset=".55" stop-color="#E4BC5D"/><stop offset="1" stop-color="#9A7224"/></linearGradient></defs><path fill="url(#sg10)" d="M20 10 C14 2,4 0,3 6 C2 11,12 12,20 10Z M20 10 C26 2,36 0,37 6 C38 11,28 12,20 10Z"/><path fill="none" stroke="#13233F" stroke-width=".6" opacity=".35" d="M19 9.5 C14 4,7 3,6 6.5 M21 9.5 C26 4,33 3,34 6.5"/><path fill="url(#sg10)" d="M18.5 10 L14 17.5 L16.6 16.6 L17.6 18 L20 11Z M21.5 10 L26 17.5 L23.4 16.6 L22.4 18 L20 11Z"/><ellipse cx="20" cy="10" rx="2.6" ry="2.2" fill="url(#sg10)" stroke="#9A7224" stroke-width=".3"/></svg><svg viewBox="0 0 33 33"><use href="#qr10"/></svg></i><span>Wie wirkst du<br>auf andere?<b>+ Geschenk für dich</b></span></div><div class="fuss"><span>CLAUDIA CONEN</span></div></div></article></div></div>
+<div class="band" id="band" tabindex="0" aria-label="Alle Sprüche, laufen langsam durch. Zum Anhalten mit der Maus darüberfahren."><div class="spur"><article class="slot" data-audio="magnet-dateien/audio/01.m4a" data-nr="01"><div class="grp">Mit Herz</div><div class="mag"><img class="ic" src="magnet-dateien/schritt-5.webp" alt=""><div class="strich"></div><div class="text"><p class="z"><b>Du wirkst immer.</b><b>Die Frage ist nur:</b><span class="gd">wie?</span></p><p class="t">Unter uns: Würdest du dir gern zuhören?</p></div><div class="qr"><i><svg class="schleife" viewBox="0 0 40 16" aria-hidden="true"><path fill="#FDFBF7" d="M20 11C15 4 6 1 5 6.5C4.3 10.5 12 12 20 11ZM20 11C25 4 34 1 35 6.5C35.7 10.5 28 12 20 11ZM17.6 10.6 13.8 16h3.4l2.8-4.2ZM22.4 10.6 26.2 16h-3.4L20 11.8Z"/><circle cx="20" cy="11" r="2.3" fill="#FDFBF7"/></svg><svg viewBox="0 0 33 33"><use href="#qr01"/></svg></i><span>Wie wirkst du<br>auf andere?</span></div><div class="fuss"><span>CLAUDIA CONEN</span></div></div></article><article class="slot" data-audio="magnet-dateien/audio/02.m4a" data-nr="02"><div class="grp">Mit Herz</div><div class="mag"><img class="ic" src="magnet-dateien/botschaft.webp" alt=""><div class="strich"></div><div class="text"><p class="z"><b>Was passiert,</b><b>wenn du mit mir</b><b>redest statt</b><b>zu scrollen?</b><span class="gd">Ich weiß es auch nicht.</span></p><p class="t">Vorsicht: Es könnte ein gutes Gespräch werden.</p></div><div class="qr"><i><svg class="schleife" viewBox="0 0 40 16" aria-hidden="true"><path fill="#FDFBF7" d="M20 11C15 4 6 1 5 6.5C4.3 10.5 12 12 20 11ZM20 11C25 4 34 1 35 6.5C35.7 10.5 28 12 20 11ZM17.6 10.6 13.8 16h3.4l2.8-4.2ZM22.4 10.6 26.2 16h-3.4L20 11.8Z"/><circle cx="20" cy="11" r="2.3" fill="#FDFBF7"/></svg><svg viewBox="0 0 33 33"><use href="#qr02"/></svg></i><span>Wie wirkst du<br>auf andere?</span></div><div class="fuss"><span>CLAUDIA CONEN</span></div></div></article><article class="slot" data-audio="magnet-dateien/audio/03.m4a" data-nr="03"><div class="grp">Mit Herz</div><div class="mag"><img class="ic" src="magnet-dateien/schritt-1.webp" alt=""><div class="strich"></div><div class="text"><p class="z"><b>Stell dir vor,</b><b>du bleibst für immer</b><b>in meinem Kopf.</b><span class="gd">Genau so, wie du gerade redest.</span></p><p class="t">Vorsicht: Du könntest begeistern. Oder eben nicht.</p></div><div class="qr"><i><svg class="schleife" viewBox="0 0 40 16" aria-hidden="true"><path fill="#FDFBF7" d="M20 11C15 4 6 1 5 6.5C4.3 10.5 12 12 20 11ZM20 11C25 4 34 1 35 6.5C35.7 10.5 28 12 20 11ZM17.6 10.6 13.8 16h3.4l2.8-4.2ZM22.4 10.6 26.2 16h-3.4L20 11.8Z"/><circle cx="20" cy="11" r="2.3" fill="#FDFBF7"/></svg><svg viewBox="0 0 33 33"><use href="#qr03"/></svg></i><span>Wie wirkst du<br>auf andere?</span></div><div class="fuss"><span>CLAUDIA CONEN</span></div></div></article><article class="slot" data-audio="magnet-dateien/audio/04.m4a" data-nr="04"><div class="grp">Mit Herz</div><div class="mag"><img class="ic" src="magnet-dateien/schritt-7.webp" alt=""><div class="strich"></div><div class="text"><p class="z"><b>Sei so freundlich</b><b>wie deine KI.</b><span class="gd">Dann reden wir.</span></p><p class="t">Vorsicht: Menschen merken den Unterschied.</p></div><div class="qr"><i><svg class="schleife" viewBox="0 0 40 16" aria-hidden="true"><path fill="#FDFBF7" d="M20 11C15 4 6 1 5 6.5C4.3 10.5 12 12 20 11ZM20 11C25 4 34 1 35 6.5C35.7 10.5 28 12 20 11ZM17.6 10.6 13.8 16h3.4l2.8-4.2ZM22.4 10.6 26.2 16h-3.4L20 11.8Z"/><circle cx="20" cy="11" r="2.3" fill="#FDFBF7"/></svg><svg viewBox="0 0 33 33"><use href="#qr04"/></svg></i><span>Wie wirkst du<br>auf andere?</span></div><div class="fuss"><span>CLAUDIA CONEN</span></div></div></article><article class="slot" data-audio="magnet-dateien/audio/05.m4a" data-nr="05"><div class="grp">Mit Herz</div><div class="mag"><img class="ic" src="magnet-dateien/schritt-3.webp" alt=""><div class="strich"></div><div class="text"><p class="z"><b>Was würdest du tun,</b><b>wenn du einzigartig</b><b>auf dieser Welt wärst?</b><span class="gd">Dann mach’s doch.</span></p><p class="t">Vorsicht: Du bist es schon.</p></div><div class="qr"><i><svg class="schleife" viewBox="0 0 40 16" aria-hidden="true"><path fill="#FDFBF7" d="M20 11C15 4 6 1 5 6.5C4.3 10.5 12 12 20 11ZM20 11C25 4 34 1 35 6.5C35.7 10.5 28 12 20 11ZM17.6 10.6 13.8 16h3.4l2.8-4.2ZM22.4 10.6 26.2 16h-3.4L20 11.8Z"/><circle cx="20" cy="11" r="2.3" fill="#FDFBF7"/></svg><svg viewBox="0 0 33 33"><use href="#qr05"/></svg></i><span>Wie wirkst du<br>auf andere?</span></div><div class="fuss"><span>CLAUDIA CONEN</span></div></div></article><article class="slot" data-audio="magnet-dateien/audio/06.m4a" data-nr="06"><div class="grp">Mit Herz</div><div class="mag"><img class="ic" src="magnet-dateien/schritt-8.webp" alt=""><div class="strich"></div><div class="text"><p class="z"><b>Menschen haben</b><span class="gd">keine Reset-Taste.</span></p><p class="t">Also: Bitte freundlich.</p></div><div class="qr"><i><svg class="schleife" viewBox="0 0 40 16" aria-hidden="true"><path fill="#FDFBF7" d="M20 11C15 4 6 1 5 6.5C4.3 10.5 12 12 20 11ZM20 11C25 4 34 1 35 6.5C35.7 10.5 28 12 20 11ZM17.6 10.6 13.8 16h3.4l2.8-4.2ZM22.4 10.6 26.2 16h-3.4L20 11.8Z"/><circle cx="20" cy="11" r="2.3" fill="#FDFBF7"/></svg><svg viewBox="0 0 33 33"><use href="#qr06"/></svg></i><span>Wie wirkst du<br>auf andere?</span></div><div class="fuss"><span>CLAUDIA CONEN</span></div></div></article><article class="slot" data-audio="magnet-dateien/audio/07.m4a" data-nr="07"><div class="grp">Mit Biss</div><div class="mag"><img class="ic" src="magnet-dateien/geschenk.webp" alt=""><div class="strich"></div><div class="text"><p class="z"><b>Kompetenz: vorhanden.</b><b>Wirkung:</b><span class="gd">wird nachgeliefert.</span></p><p class="t">Vorsicht: Lieferzeit unbekannt.</p></div><div class="qr"><i><svg class="schleife" viewBox="0 0 40 16" aria-hidden="true"><path fill="#FDFBF7" d="M20 11C15 4 6 1 5 6.5C4.3 10.5 12 12 20 11ZM20 11C25 4 34 1 35 6.5C35.7 10.5 28 12 20 11ZM17.6 10.6 13.8 16h3.4l2.8-4.2ZM22.4 10.6 26.2 16h-3.4L20 11.8Z"/><circle cx="20" cy="11" r="2.3" fill="#FDFBF7"/></svg><svg viewBox="0 0 33 33"><use href="#qr07"/></svg></i><span>Wie wirkst du<br>auf andere?</span></div><div class="fuss"><span>CLAUDIA CONEN</span></div></div></article><article class="slot" data-audio="magnet-dateien/audio/08.m4a" data-nr="08"><div class="grp">Mit Biss</div><div class="mag"><img class="ic" src="magnet-dateien/ki.webp" alt=""><div class="strich"></div><div class="text"><p class="z"><b>Du klingst</b><b>wie ein Prompt.</b><span class="gd">Nur nicht so freundlich.</span></p></div><div class="qr"><i><svg class="schleife" viewBox="0 0 40 16" aria-hidden="true"><path fill="#FDFBF7" d="M20 11C15 4 6 1 5 6.5C4.3 10.5 12 12 20 11ZM20 11C25 4 34 1 35 6.5C35.7 10.5 28 12 20 11ZM17.6 10.6 13.8 16h3.4l2.8-4.2ZM22.4 10.6 26.2 16h-3.4L20 11.8Z"/><circle cx="20" cy="11" r="2.3" fill="#FDFBF7"/></svg><svg viewBox="0 0 33 33"><use href="#qr08"/></svg></i><span>Wie wirkst du<br>auf andere?</span></div><div class="fuss"><span>CLAUDIA CONEN</span></div></div></article><article class="slot" data-audio="magnet-dateien/audio/09.m4a" data-nr="09"><div class="grp">Mit Biss</div><div class="mag"><img class="ic" src="magnet-dateien/schritt-9.webp" alt=""><div class="strich"></div><div class="text"><p class="z"><b>Dein Pitch</b><b>war super.</b><span class="gd">Hat nur keiner verstanden.</span></p></div><div class="qr"><i><svg class="schleife" viewBox="0 0 40 16" aria-hidden="true"><path fill="#FDFBF7" d="M20 11C15 4 6 1 5 6.5C4.3 10.5 12 12 20 11ZM20 11C25 4 34 1 35 6.5C35.7 10.5 28 12 20 11ZM17.6 10.6 13.8 16h3.4l2.8-4.2ZM22.4 10.6 26.2 16h-3.4L20 11.8Z"/><circle cx="20" cy="11" r="2.3" fill="#FDFBF7"/></svg><svg viewBox="0 0 33 33"><use href="#qr09"/></svg></i><span>Wie wirkst du<br>auf andere?</span></div><div class="fuss"><span>CLAUDIA CONEN</span></div></div></article><article class="slot" data-audio="magnet-dateien/audio/10.m4a" data-nr="10"><div class="grp">Mit Biss</div><div class="mag"><img class="ic" src="magnet-dateien/praesenz.webp" alt=""><div class="strich"></div><div class="text"><p class="z"><b>Kamera an,</b><b>Persönlichkeit aus?</b><span class="gd">Warum redest du jetzt so anders?</span></p></div><div class="qr"><i><svg class="schleife" viewBox="0 0 40 16" aria-hidden="true"><path fill="#FDFBF7" d="M20 11C15 4 6 1 5 6.5C4.3 10.5 12 12 20 11ZM20 11C25 4 34 1 35 6.5C35.7 10.5 28 12 20 11ZM17.6 10.6 13.8 16h3.4l2.8-4.2ZM22.4 10.6 26.2 16h-3.4L20 11.8Z"/><circle cx="20" cy="11" r="2.3" fill="#FDFBF7"/></svg><svg viewBox="0 0 33 33"><use href="#qr10"/></svg></i><span>Wie wirkst du<br>auf andere?</span></div><div class="fuss"><span>CLAUDIA CONEN</span></div></div></article><article class="slot" data-audio="magnet-dateien/audio/01.m4a" data-nr="01" aria-hidden="true"><div class="grp">Mit Herz</div><div class="mag"><img class="ic" src="magnet-dateien/schritt-5.webp" alt=""><div class="strich"></div><div class="text"><p class="z"><b>Du wirkst immer.</b><b>Die Frage ist nur:</b><span class="gd">wie?</span></p><p class="t">Unter uns: Würdest du dir gern zuhören?</p></div><div class="qr"><i><svg class="schleife" viewBox="0 0 40 16" aria-hidden="true"><path fill="#FDFBF7" d="M20 11C15 4 6 1 5 6.5C4.3 10.5 12 12 20 11ZM20 11C25 4 34 1 35 6.5C35.7 10.5 28 12 20 11ZM17.6 10.6 13.8 16h3.4l2.8-4.2ZM22.4 10.6 26.2 16h-3.4L20 11.8Z"/><circle cx="20" cy="11" r="2.3" fill="#FDFBF7"/></svg><svg viewBox="0 0 33 33"><use href="#qr01"/></svg></i><span>Wie wirkst du<br>auf andere?</span></div><div class="fuss"><span>CLAUDIA CONEN</span></div></div></article><article class="slot" data-audio="magnet-dateien/audio/02.m4a" data-nr="02" aria-hidden="true"><div class="grp">Mit Herz</div><div class="mag"><img class="ic" src="magnet-dateien/botschaft.webp" alt=""><div class="strich"></div><div class="text"><p class="z"><b>Was passiert,</b><b>wenn du mit mir</b><b>redest statt</b><b>zu scrollen?</b><span class="gd">Ich weiß es auch nicht.</span></p><p class="t">Vorsicht: Es könnte ein gutes Gespräch werden.</p></div><div class="qr"><i><svg class="schleife" viewBox="0 0 40 16" aria-hidden="true"><path fill="#FDFBF7" d="M20 11C15 4 6 1 5 6.5C4.3 10.5 12 12 20 11ZM20 11C25 4 34 1 35 6.5C35.7 10.5 28 12 20 11ZM17.6 10.6 13.8 16h3.4l2.8-4.2ZM22.4 10.6 26.2 16h-3.4L20 11.8Z"/><circle cx="20" cy="11" r="2.3" fill="#FDFBF7"/></svg><svg viewBox="0 0 33 33"><use href="#qr02"/></svg></i><span>Wie wirkst du<br>auf andere?</span></div><div class="fuss"><span>CLAUDIA CONEN</span></div></div></article><article class="slot" data-audio="magnet-dateien/audio/03.m4a" data-nr="03" aria-hidden="true"><div class="grp">Mit Herz</div><div class="mag"><img class="ic" src="magnet-dateien/schritt-1.webp" alt=""><div class="strich"></div><div class="text"><p class="z"><b>Stell dir vor,</b><b>du bleibst für immer</b><b>in meinem Kopf.</b><span class="gd">Genau so, wie du gerade redest.</span></p><p class="t">Vorsicht: Du könntest begeistern. Oder eben nicht.</p></div><div class="qr"><i><svg class="schleife" viewBox="0 0 40 16" aria-hidden="true"><path fill="#FDFBF7" d="M20 11C15 4 6 1 5 6.5C4.3 10.5 12 12 20 11ZM20 11C25 4 34 1 35 6.5C35.7 10.5 28 12 20 11ZM17.6 10.6 13.8 16h3.4l2.8-4.2ZM22.4 10.6 26.2 16h-3.4L20 11.8Z"/><circle cx="20" cy="11" r="2.3" fill="#FDFBF7"/></svg><svg viewBox="0 0 33 33"><use href="#qr03"/></svg></i><span>Wie wirkst du<br>auf andere?</span></div><div class="fuss"><span>CLAUDIA CONEN</span></div></div></article><article class="slot" data-audio="magnet-dateien/audio/04.m4a" data-nr="04" aria-hidden="true"><div class="grp">Mit Herz</div><div class="mag"><img class="ic" src="magnet-dateien/schritt-7.webp" alt=""><div class="strich"></div><div class="text"><p class="z"><b>Sei so freundlich</b><b>wie deine KI.</b><span class="gd">Dann reden wir.</span></p><p class="t">Vorsicht: Menschen merken den Unterschied.</p></div><div class="qr"><i><svg class="schleife" viewBox="0 0 40 16" aria-hidden="true"><path fill="#FDFBF7" d="M20 11C15 4 6 1 5 6.5C4.3 10.5 12 12 20 11ZM20 11C25 4 34 1 35 6.5C35.7 10.5 28 12 20 11ZM17.6 10.6 13.8 16h3.4l2.8-4.2ZM22.4 10.6 26.2 16h-3.4L20 11.8Z"/><circle cx="20" cy="11" r="2.3" fill="#FDFBF7"/></svg><svg viewBox="0 0 33 33"><use href="#qr04"/></svg></i><span>Wie wirkst du<br>auf andere?</span></div><div class="fuss"><span>CLAUDIA CONEN</span></div></div></article><article class="slot" data-audio="magnet-dateien/audio/05.m4a" data-nr="05" aria-hidden="true"><div class="grp">Mit Herz</div><div class="mag"><img class="ic" src="magnet-dateien/schritt-3.webp" alt=""><div class="strich"></div><div class="text"><p class="z"><b>Was würdest du tun,</b><b>wenn du einzigartig</b><b>auf dieser Welt wärst?</b><span class="gd">Dann mach’s doch.</span></p><p class="t">Vorsicht: Du bist es schon.</p></div><div class="qr"><i><svg class="schleife" viewBox="0 0 40 16" aria-hidden="true"><path fill="#FDFBF7" d="M20 11C15 4 6 1 5 6.5C4.3 10.5 12 12 20 11ZM20 11C25 4 34 1 35 6.5C35.7 10.5 28 12 20 11ZM17.6 10.6 13.8 16h3.4l2.8-4.2ZM22.4 10.6 26.2 16h-3.4L20 11.8Z"/><circle cx="20" cy="11" r="2.3" fill="#FDFBF7"/></svg><svg viewBox="0 0 33 33"><use href="#qr05"/></svg></i><span>Wie wirkst du<br>auf andere?</span></div><div class="fuss"><span>CLAUDIA CONEN</span></div></div></article><article class="slot" data-audio="magnet-dateien/audio/06.m4a" data-nr="06" aria-hidden="true"><div class="grp">Mit Herz</div><div class="mag"><img class="ic" src="magnet-dateien/schritt-8.webp" alt=""><div class="strich"></div><div class="text"><p class="z"><b>Menschen haben</b><span class="gd">keine Reset-Taste.</span></p><p class="t">Also: Bitte freundlich.</p></div><div class="qr"><i><svg class="schleife" viewBox="0 0 40 16" aria-hidden="true"><path fill="#FDFBF7" d="M20 11C15 4 6 1 5 6.5C4.3 10.5 12 12 20 11ZM20 11C25 4 34 1 35 6.5C35.7 10.5 28 12 20 11ZM17.6 10.6 13.8 16h3.4l2.8-4.2ZM22.4 10.6 26.2 16h-3.4L20 11.8Z"/><circle cx="20" cy="11" r="2.3" fill="#FDFBF7"/></svg><svg viewBox="0 0 33 33"><use href="#qr06"/></svg></i><span>Wie wirkst du<br>auf andere?</span></div><div class="fuss"><span>CLAUDIA CONEN</span></div></div></article><article class="slot" data-audio="magnet-dateien/audio/07.m4a" data-nr="07" aria-hidden="true"><div class="grp">Mit Biss</div><div class="mag"><img class="ic" src="magnet-dateien/geschenk.webp" alt=""><div class="strich"></div><div class="text"><p class="z"><b>Kompetenz: vorhanden.</b><b>Wirkung:</b><span class="gd">wird nachgeliefert.</span></p><p class="t">Vorsicht: Lieferzeit unbekannt.</p></div><div class="qr"><i><svg class="schleife" viewBox="0 0 40 16" aria-hidden="true"><path fill="#FDFBF7" d="M20 11C15 4 6 1 5 6.5C4.3 10.5 12 12 20 11ZM20 11C25 4 34 1 35 6.5C35.7 10.5 28 12 20 11ZM17.6 10.6 13.8 16h3.4l2.8-4.2ZM22.4 10.6 26.2 16h-3.4L20 11.8Z"/><circle cx="20" cy="11" r="2.3" fill="#FDFBF7"/></svg><svg viewBox="0 0 33 33"><use href="#qr07"/></svg></i><span>Wie wirkst du<br>auf andere?</span></div><div class="fuss"><span>CLAUDIA CONEN</span></div></div></article><article class="slot" data-audio="magnet-dateien/audio/08.m4a" data-nr="08" aria-hidden="true"><div class="grp">Mit Biss</div><div class="mag"><img class="ic" src="magnet-dateien/ki.webp" alt=""><div class="strich"></div><div class="text"><p class="z"><b>Du klingst</b><b>wie ein Prompt.</b><span class="gd">Nur nicht so freundlich.</span></p></div><div class="qr"><i><svg class="schleife" viewBox="0 0 40 16" aria-hidden="true"><path fill="#FDFBF7" d="M20 11C15 4 6 1 5 6.5C4.3 10.5 12 12 20 11ZM20 11C25 4 34 1 35 6.5C35.7 10.5 28 12 20 11ZM17.6 10.6 13.8 16h3.4l2.8-4.2ZM22.4 10.6 26.2 16h-3.4L20 11.8Z"/><circle cx="20" cy="11" r="2.3" fill="#FDFBF7"/></svg><svg viewBox="0 0 33 33"><use href="#qr08"/></svg></i><span>Wie wirkst du<br>auf andere?</span></div><div class="fuss"><span>CLAUDIA CONEN</span></div></div></article><article class="slot" data-audio="magnet-dateien/audio/09.m4a" data-nr="09" aria-hidden="true"><div class="grp">Mit Biss</div><div class="mag"><img class="ic" src="magnet-dateien/schritt-9.webp" alt=""><div class="strich"></div><div class="text"><p class="z"><b>Dein Pitch</b><b>war super.</b><span class="gd">Hat nur keiner verstanden.</span></p></div><div class="qr"><i><svg class="schleife" viewBox="0 0 40 16" aria-hidden="true"><path fill="#FDFBF7" d="M20 11C15 4 6 1 5 6.5C4.3 10.5 12 12 20 11ZM20 11C25 4 34 1 35 6.5C35.7 10.5 28 12 20 11ZM17.6 10.6 13.8 16h3.4l2.8-4.2ZM22.4 10.6 26.2 16h-3.4L20 11.8Z"/><circle cx="20" cy="11" r="2.3" fill="#FDFBF7"/></svg><svg viewBox="0 0 33 33"><use href="#qr09"/></svg></i><span>Wie wirkst du<br>auf andere?</span></div><div class="fuss"><span>CLAUDIA CONEN</span></div></div></article><article class="slot" data-audio="magnet-dateien/audio/10.m4a" data-nr="10" aria-hidden="true"><div class="grp">Mit Biss</div><div class="mag"><img class="ic" src="magnet-dateien/praesenz.webp" alt=""><div class="strich"></div><div class="text"><p class="z"><b>Kamera an,</b><b>Persönlichkeit aus?</b><span class="gd">Warum redest du jetzt so anders?</span></p></div><div class="qr"><i><svg class="schleife" viewBox="0 0 40 16" aria-hidden="true"><path fill="#FDFBF7" d="M20 11C15 4 6 1 5 6.5C4.3 10.5 12 12 20 11ZM20 11C25 4 34 1 35 6.5C35.7 10.5 28 12 20 11ZM17.6 10.6 13.8 16h3.4l2.8-4.2ZM22.4 10.6 26.2 16h-3.4L20 11.8Z"/><circle cx="20" cy="11" r="2.3" fill="#FDFBF7"/></svg><svg viewBox="0 0 33 33"><use href="#qr10"/></svg></i><span>Wie wirkst du<br>auf andere?</span></div><div class="fuss"><span>CLAUDIA CONEN</span></div></div></article></div></div>
 
 <section class="produkt"><div class="w">
  <div class="pz">
